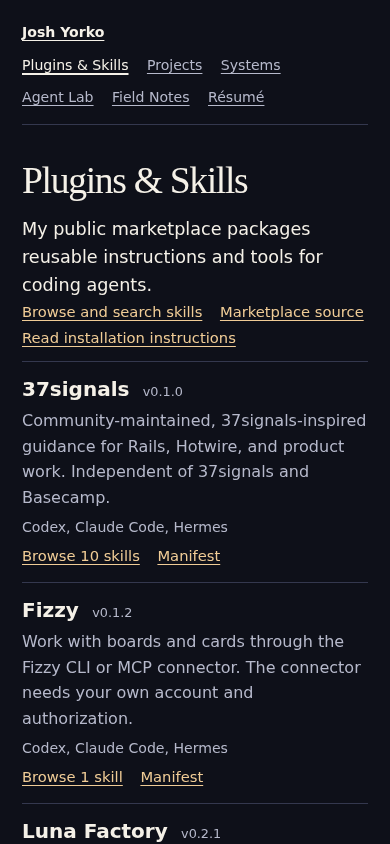
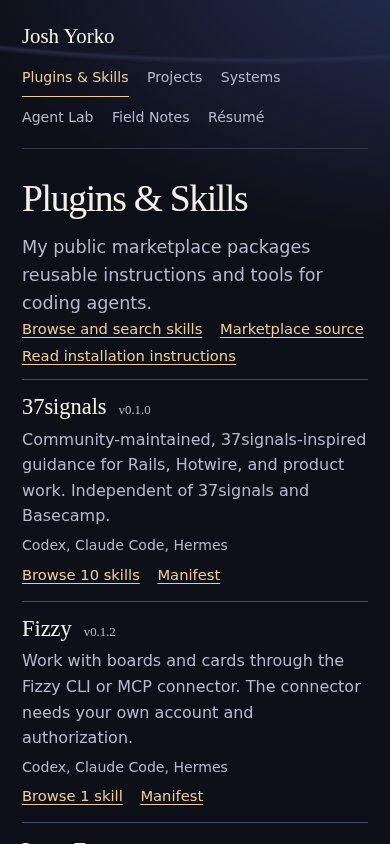
refine(portfolio): blend the orbital horizon into navigation

Changed region(s): [[0.0615, 0.1848, 0.9538, 1.0], [0.0, 0.0, 1.0, 0.154], [0.4615, 0.9858, 0.5538, 1.0]]

diff --git a/portfolio/site.css b/portfolio/site.css
@@ -24,9 +24,10 @@ a:hover { color: var(--text); }
   border-bottom: 1px solid var(--line);
 }
 .site-header nav { display: flex; align-items: center; flex-wrap: wrap; column-gap: 1.15rem; row-gap: .05rem; }
-.site-header a { display: inline-flex; align-items: center; min-height: 2rem; font-size: .88rem; color: var(--muted); }
-.site-header .identity { color: var(--text); font-weight: 700; margin-right: auto; }
-.site-header a[aria-current="page"] { color: var(--text); text-decoration-thickness: 2px; }
+.site-header a { display: inline-flex; align-items: center; min-height: 2.5rem; font-size: .88rem; color: var(--muted); text-decoration: none; }
+.site-header .identity { color: var(--text); font: 400 1.3rem Georgia, serif; margin-right: auto; }
+.site-header a:hover { color: var(--link); }
+.site-header a[aria-current] { color: var(--link); box-shadow: inset 0 -1px var(--link); }
 .site-footer {
   border-top: 1px solid var(--line);
   display: flex;
@@ -42,7 +43,6 @@ h2 { font-size: 1.25rem; line-height: 1.3; }
 h3 { font-size: 1.05rem; line-height: 1.35; }
 p { max-width: 60ch; }
 .intro { margin-top: .85rem; font-size: 1.1rem; }
-.role { color: var(--muted); margin-top: .45rem; }
 .section { margin-top: 2.15rem; }
 .section > p { margin-top: .4rem; }
 .entries { list-style: none; margin: .7rem 0 0; padding: 0; }
@@ -84,52 +84,117 @@ output { display: block; margin-top: .65rem; }
 @media (max-width: 36rem) {
   .site-header .identity { flex-basis: 100%; }
 }
-@media print {
-  :root { color-scheme: light; background: white; color: black; }
-  .site-header, .site-footer, .skip { display: none; }
-  .shell { width: auto; }
-  .small, .description, .role, a { color: black; }
-  main { padding: 0; }
-  h2, h3 { break-after: avoid; }
-  li { break-inside: avoid; }
+/* The horizon, artwork and navigation share one scene. */
+.home-page, .interior { overflow-x: clip; }
+.home-shell { width: min(70rem, 100% - 2.75rem); margin-inline: auto; padding-block: 0 3rem; }
+.orbit {
+  display: grid;
+  position: relative;
+  isolation: isolate;
 }
-
-/* The art is decorative and the document retains its complete navigation without it. */
-.home-shell { width: min(73rem, 100% - 2.75rem); margin-inline: auto; padding-block: 2rem 3.25rem; }
-.orbit { display: grid; position: relative; isolation: isolate; align-items: center; }
-.orbit-intro { position: relative; z-index: 1; }
-.orbit h1 { font-size: clamp(3rem, 7vw, 5.55rem); letter-spacing: -.058em; line-height: .98; }
-.orbit-summary { max-width: 29ch; font-size: clamp(1rem, 1.9vw, 1.24rem); margin-top: 1rem; }
-.orbit-links { display: flex; flex-wrap: wrap; gap: .15rem 1.15rem; margin-top: .6rem; font-weight: 600; }
-.orbit-links a { padding-block: .4rem; }
-.orbital-art { display: block; overflow: hidden; position: relative; margin-block: .65rem .4rem; }
-.orbital-art img {
-  display: block; width: 100%; height: auto; aspect-ratio: 3 / 2; object-fit: cover;
-  mask-image: linear-gradient(to bottom, transparent, #000 9%, #000 91%, transparent);
+.orbit::before {
+  content: "";
+  position: absolute;
+  z-index: -2;
+  inset: 0 calc((100% - 100vw) / 2);
+  pointer-events: none;
+  background:
+    radial-gradient(ellipse 88% 55% at 64% 114%, #151d3e 0%, #1d2954 68%, #5262912e 70%, transparent 73%),
+    radial-gradient(ellipse at 64% 65%, #1a2042 0%, transparent 67%);
+  mask-image: linear-gradient(#000 78%, transparent);
 }
+.orbit-intro { padding-top: 1.9rem; }
+.orbit h1 { font-size: clamp(2.8rem, 6.1vw, 5.25rem); letter-spacing: -.06em; line-height: 1; }
+.orbit-summary {
+  max-width: 34ch;
+  font-size: clamp(1rem, 1.8vw, 1.18rem);
+  color: var(--muted);
+  margin-top: .75rem;
+  text-wrap: pretty;
+}
+.orbit-links {
+  display: flex;
+  flex-wrap: wrap;
+  gap: .2rem 1.2rem;
+  margin-top: .38rem;
+  font-weight: 650;
+}
+.orbit-links a { display: inline-flex; align-items: center; gap: .3em; min-height: 2.75rem; text-decoration: none; }
+.orbit-links a:hover { text-decoration: underline; }
+.orbital-art {
+  display: block;
+  margin: -.05rem -1.375rem -.85rem;
+  z-index: -1;
+  min-width: 0;
+  background: radial-gradient(ellipse at 62% 78%, #3b4e9736, transparent 63%);
+  --art-mask: linear-gradient(to bottom, transparent, #000 12%, #000 78%, transparent 100%);
+  -webkit-mask-image: var(--art-mask);
+  mask-image: var(--art-mask);
+}
+.orbital-art img { display: block; width: 100%; height: auto; aspect-ratio: 3 / 2; object-fit: cover; }
 .home-nav ul {
-  list-style: none; margin: 0; padding: .6rem 0;
-  display: flex; flex-wrap: wrap; gap: .15rem 1.25rem;
-  border-block: 1px solid var(--line);
+  list-style: none;
+  margin: 0;
+  padding: .44rem 0;
+  display: grid;
+  grid-template-columns: 1.28fr 1fr 1fr;
+  column-gap: .45rem;
+  border-block: 1px solid #69739a75;
 }
-.home-nav a { display: inline-block; color: var(--text); font-size: .94rem; padding-block: .38rem; }
-.home-nav a:hover { color: var(--link); }
-.selected { margin-top: 2.25rem; }
+.home-nav a {
+  display: inline-flex;
+  align-items: center;
+  color: var(--text);
+  font-size: .9rem;
+  font-weight: 580;
+  min-height: 2.6rem;
+  text-decoration: none;
+}
+.home-nav a:hover { color: var(--link); text-decoration: underline; }
+.home-nav li:first-child a { color: var(--link); }
+.selected { margin-top: 1.8rem; }
 .selected h2 { font: 400 1.75rem/1.2 Georgia, serif; }
 .selected ul {
-  list-style: none; display: grid; margin: .75rem 0 .8rem; gap: .55rem 1.5rem; padding: 0;
+  list-style: none; display: grid; margin: .6rem 0 0; gap: .7rem 1.5rem; padding: 0;
 }
 .selected li p { color: var(--muted); font-size: .94rem; }
 .selected li a { font-weight: 600; }
-.home-shell + .site-footer { width: min(73rem, 100% - 2.75rem); }
+.home-shell + .site-footer { width: min(70rem, 100% - 2.75rem); }
+
+.interior {
+  background:
+    radial-gradient(ellipse 34rem 19rem at calc(50% + 18rem) -3rem, #263259 0%, transparent 95%),
+    radial-gradient(ellipse 45rem 9rem at 65% -3rem, transparent 73%, #5d71af40 75%, transparent 78%);
+}
+.interior main { padding-top: clamp(1.85rem, 5vw, 3.05rem); }
+.interior .intro { color: var(--muted); max-width: 52ch; }
+.interior .entries > li h2 { font: 400 1.4rem/1.2 Georgia, serif; }
+.interior .entries > li { border-color: #424b69; }
+.interior .section > h2 { margin-bottom: .4rem; }
+.interior form button, .lab-controls button { border-color: #687390; }
+
 @media (min-width: 53rem) {
-  .home-shell { padding-top: clamp(2rem, 5vw, 4rem); }
-  .orbit { grid-template-columns: 2fr 3fr; min-height: clamp(24rem, 37vw, 33rem); }
-  .orbital-art { margin: 0 0 0 -5rem; }
-  .orbital-art img {
-    mask-image: radial-gradient(ellipse at 55% 48%, #000 52%, transparent 77%);
+  .orbit { grid-template-columns: minmax(0, 2fr) minmax(0, 3fr); align-items: center; min-height: 31rem; }
+  .orbit-intro { padding: 3rem 0 4rem; }
+  .orbital-art {
+    position: absolute;
+    inset: auto calc((100% - 100vw) / 2) 0 auto;
+    width: min(68vw, 46.5rem);
+    margin: 0;
+    --art-mask: radial-gradient(ellipse 75% 78% at 71% 49%, #000 46%, transparent 98%);
   }
-  .home-nav ul { gap: .2rem 2rem; }
+  .home-nav { grid-column: 1 / -1; align-self: end; }
+  .home-nav ul { grid-template-columns: repeat(6, max-content); column-gap: clamp(1.5rem, 4vw, 3.75rem); }
   .selected ul { grid-template-columns: repeat(3, minmax(0, 1fr)); }
 }
-@media print { .orbital-art { display: none; } }
+
+@media print {
+  :root { color-scheme: light; --bg: #fff; --text: #111; --muted: #333; --link: #111; --line: #ccc; }
+  .site-header, .site-footer, .skip, .home-nav, .orbital-art, .orbit::before { display: none; }
+  .interior { background: white; }
+  .shell, .home-shell { width: auto; }
+  main, .interior main, .orbit-intro { padding: 0; }
+  .orbit { display: block; min-height: 0; }
+  h2, h3 { break-after: avoid; }
+  li { break-inside: avoid; }
+}

diff --git a/portfolio/README.md b/portfolio/README.md
@@ -12,6 +12,8 @@ Open http://127.0.0.1:8000/. The dependency-free build needs Node 22 or newer. T
 
 [360 px](proof/home-360.png) · [390 px](proof/home-390.png) · [411 px](proof/home-411.png) · [1440 px](proof/home-1440.png) · [Plugins](proof/plugins-390.png) · [Skill search](proof/skills-390.png) · [Lab](proof/lab-390.png)
 
+The refinement blends the artwork into a viewport-wide horizon and places the navigation on that same field. The interior pages use the same light and type. [Before on phone](https://github.com/joshyorko/yorko-resume/blob/1495b23d9595d64612565be67079c036f081baf7/portfolio/proof/home-390.png) · [Before on desktop](https://github.com/joshyorko/yorko-resume/blob/1495b23d9595d64612565be67079c036f081baf7/portfolio/proof/home-1440.png)
+
 The homepage pairs two direct tasks with a single orbital illustration. The complete site navigation lives in the document. ImageGen produced the original illustration for this project. The two WebP encodes are the only new visual assets. The page uses system fonts and static art, with no animation, GPU scene, or homepage JavaScript.
 
 The Neon and Opus arena revisions informed the provenance links and dated notes. First-class routes, public catalog sources, offline Actions and MemoryD work, and the earlier design evidence come from [PR #52’s baseline](https://github.com/joshyorko/yorko-resume/tree/631481871d22d7b053c1aae23a84cc7d14d04b09/portfolio).
